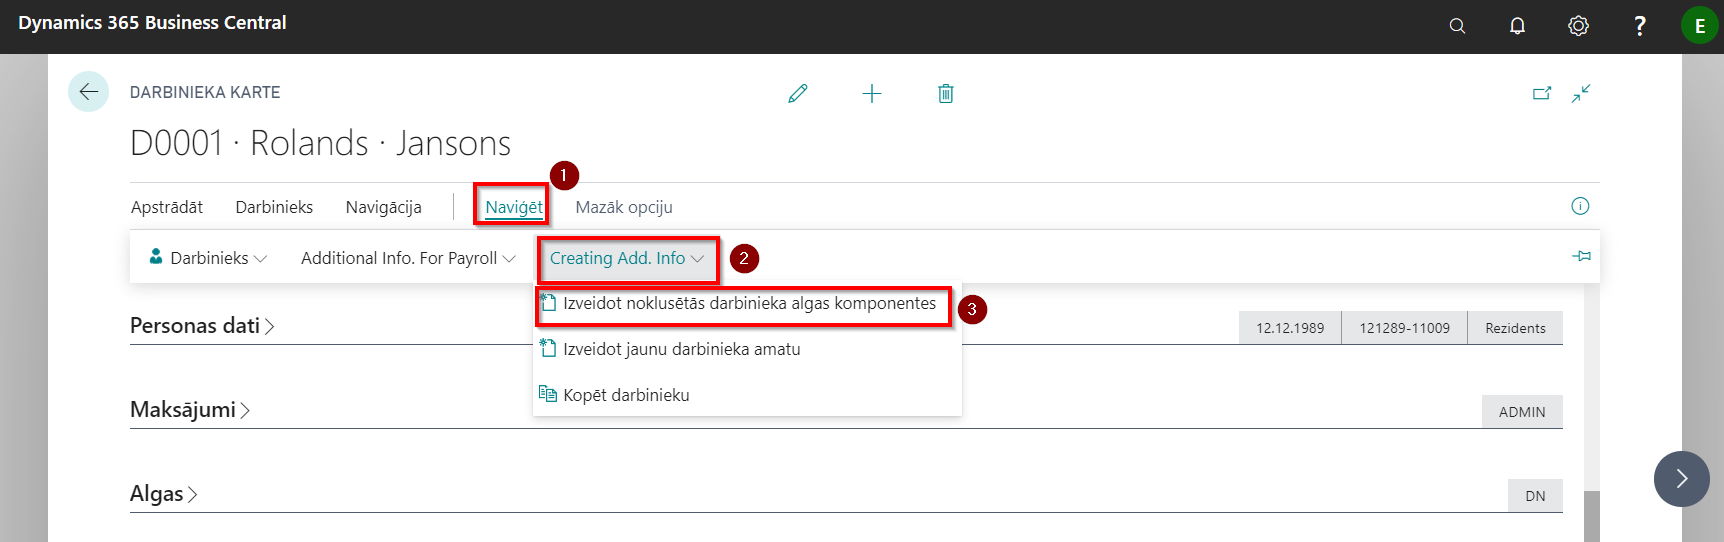
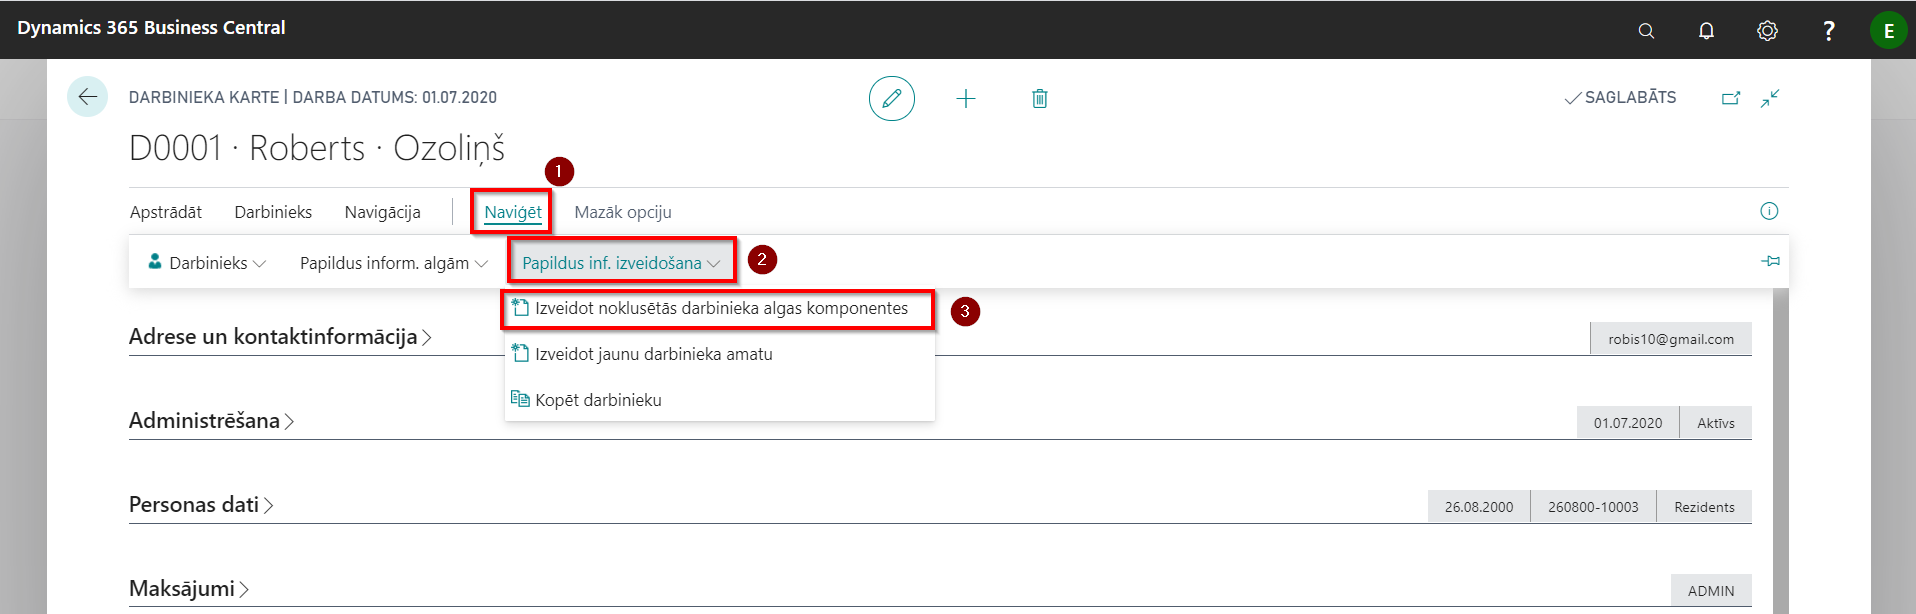
Automated Release lv-LV

diff --git a/lv-LV/docs/payroll_base/setup/6.1.empl_add.info.html b/lv-LV/docs/payroll_base/setup/6.1.empl_add.info.html
@@ -95,7 +95,7 @@
 </ul>
 <h2 id="kvalifikācija">Kvalifikācija</h2>
 <p>Sistēmā var uzturēt darbinieku kvalifikācijas sarakstu. Pamatojoties uz to, var izsekot termiņiem, kad apmācības/ instruktāžas jāveic atkārtoti (piemēram, izmantojot atskaiti <em>Darbinieku kvalifikācijas</em>).</p>
-<p>Lai varētu uzsākt kvalifikācijas uzskaiti, nepeiciešams reģistrēt sarakstā <em>Kvalifikācijas</em> uzņēmumam aktuālos kvalifikāciju veidu kodus un to aprakstus. Kvalifikācijas kodus ievada katru jaunā rindiņā, norādot brīvi izvēlētu kodu (<img src="count1.png" alt="alt">) un attiecīgās kvalifikācijas aprakstu (<img src="count2.png" alt="alt">). Ja laukā <em>Kvalificēti darbinieki</em> (<img src="count3.png" alt="alt">) ir atzīme <em>Jā</em>, tad klikšķinot uz saites <img src="count3.png" alt="alt"> var apskatīt sarakstu, kuriem darbiniekiem ir šī konrētā kvalifikācija.</p>
+<p>Lai varētu uzsākt kvalifikācijas uzskaiti, nepeiciešams reģistrēt sarakstā <em>Kvalifikācijas</em> uzņēmumam aktuālos kvalifikāciju veidu kodus un to aprakstus. Kvalifikācijas kodus ievada katru jaunā rindiņā, norādot brīvi izvēlētu kodu (<img src="count1.png" alt="alt">) un attiecīgās kvalifikācijas aprakstu (<img src="count2.png" alt="alt">). Ja laukā <em>Kvalificēti darbinieki</em> (<img src="count3.png" alt="alt">) ir atzīme <em>Jā</em>, tad klikšķinot uz saites <img src="count3.png" alt="alt"> var apskatīt sarakstu, kuriem darbiniekiem ir šī konkrētā kvalifikācija.</p>
 <p><img src="6.empl_add_info3.png" alt="alt"></p>
 <p>Kad saraksts <em>Kvalifikācijas</em> aizpildīts, var definēt darbinieka kvalifikācijas, izvēloties Darbinieka kartiņas rīkjoslā <em>Naviģēt</em> - <em>Darbinieks</em> - <em>Kvalifikācijas</em>.</p>
 <p><img src="6.empl_add_info2.png" alt="alt"></p>
@@ -153,13 +153,13 @@
 <p>Izsniegto priekšmetu kontrolei ir iespēja izmantot atskaiti <em>Dažādu priekšmetu pārskats</em>, kas pieejama darbinieku kartiņā klikšķinot uz pogām <em>Naviģēt</em> un <em>Darbinieks</em>.</p>
 <p>Vēl viena iespēja datu apkopošanai ir izmantot atskati <em>Darbinieka daž. priekšm. info</em>, kas pieejama ievadot nosaukumu sistēmas meklēšanas laukā.</p>
 <h2 id="darbinieka-ziņu-kodi">Darbinieka ziņu kodi</h2>
-<p>Darbinieka kartiņas rīkjoslā <em>Naviģēt</em> - <em>Papildus algu info</em> ir pieejama funkcija <em>Ziņu kodi</em>, kur var apskatīt un rediģēt darbiniekam piesaistītos ziņu kodus, pamatojoties uz kuriem tiek veidota atskaite <em>Ziņas par darba ņēmējiem</em>. Ja Algu uzstādījumu cilnē <em>Atskaites</em> ir ieslēgta funkcija <em>Ziņu koda pārbaudes iesl.</em>, tiek piedāvāta saīsne uz šo sarakstu, ikreiz kad tiek ievadīts darbinieka kartiņā darbā pieņemšanas datums vai atbrīvošanas datums, vai prombūtne, par ko ir jāsniedz ziņas EDS.</p>
+<p>Darbinieka kartiņas rīkjoslā <em>Naviģēt</em> - <em>Papildus inform. algām</em> ir pieejama funkcija <em>Ziņu kodi</em>, kur var apskatīt un rediģēt darbiniekam piesaistītos ziņu kodus, pamatojoties uz kuriem tiek veidota atskaite <em>Ziņas par darba ņēmējiem</em>. Ja Algu uzstādījumu cilnē <em>Atskaites</em> ir ieslēgta funkcija <em>Ziņu koda pārbaudes iesl.</em>, tiek piedāvāta saīsne uz šo sarakstu, ikreiz kad tiek ievadīts darbinieka kartiņā darbā pieņemšanas datums vai atbrīvošanas datums, vai prombūtne, par ko ir jāsniedz ziņas EDS.</p>
 <h2 id="saistītā-informācija">Saistītā informācija</h2>
-<p>Darbinieka kartiņas rīkjoslā <em>Naviģēt</em> - <em>Papildus algu info</em> ir pieejama funkcija <em>Saistītā informācija</em>. Šeit ir jāievada katam darbiniekam Algas nodokļu grāmatiņas iesniegšanas fakts un jānorāda datums. Nerezidentiem šeit arī ir veicama atzīme un norādāms datums.</p>
+<p>Darbinieka kartiņas rīkjoslā <em>Naviģēt</em> - <em>Papildus inform. algām</em> ir pieejama funkcija <em>Saistītā informācija</em>. Šeit ir jāievada katam darbiniekam Algas nodokļu grāmatiņas iesniegšanas fakts un jānorāda datums. Nerezidentiem šeit arī ir veicama atzīme un norādāms datums.</p>
 <p>Papildus ir pieejama pazīme aprēķiniem <em>Piemērot progresīvo ienākuma nodokli</em>.</p>
 <p><img src="6.empl_add_info6.png" alt="alt"></p>
 <h2 id="pārskaitījumi">Pārskaitījumi</h2>
-<p>Ja ir saņemts rīkojums ieturēt no darbinieka algas kādu summu un pārskaitīt to citas personas kontā (piemēram, tiesu izpildītāja kontā), tad šim gadījumam ir paredzēta funkcionalitāte <em>Pārskaitījumi</em>, kas atrodama darbinieka kartiņas rīkjoslā <em>Naviģēt</em> - <em>Papildus algu info</em>. Rindiņā jāsavada visa prasītā informācija, lai sistēma varētu sagatavot maksājumu nosūtīšanai uz maksājuma žurnālu un eksportēt uz banku.</p>
+<p>Ja ir saņemts rīkojums ieturēt no darbinieka algas kādu summu un pārskaitīt to citas personas kontā (piemēram, tiesu izpildītāja kontā), tad šim gadījumam ir paredzēta funkcionalitāte <em>Pārskaitījumi</em>, kas atrodama darbinieka kartiņas rīkjoslā <em>Naviģēt</em> - <em>Papildus inform. algām</em>. Rindiņā jāsavada visa prasītā informācija, lai sistēma varētu sagatavot maksājumu nosūtīšanai uz maksājuma žurnālu un eksportēt uz banku.</p>
 <p><img src="6.empl_add_info7.png" alt="alt"></p>
 <table>
 <thead>
@@ -217,7 +217,7 @@
 </table>
 <h2 id="pievienotie-faili">Pievienotie faili</h2>
 <p>Nepieciešamības gadījumā pie darbinieka kartiņas sistēmā ir iespējams pievienot failus jebkurā formātā (piemēram, CV, diplomus un citus dokumentus).
-Funkcionalitāte ir pieejama darbinieku kartiņas rīkjoslā <em>Darbinieks</em>.</p>
+Funkcionalitāte ir pieejama darbinieku kartiņas rīkjoslā <em>Naviģēt</em> - <em>Darbinieks</em> - <em>Pielikumi</em>.</p>
 <p><img src="6.empl_add_info8.png" alt="alt"></p>
 <h2 id="atskaites">Atskaites</h2>
 <p>No darbinieka kartiņas var ērti piekļūt sekojošām atskaitēm:</p>

diff --git a/lv-LV/docs/payroll_base/setup/6.empl_add.info.html b/lv-LV/docs/payroll_base/setup/6.empl_add.info.html
@@ -382,7 +382,7 @@
 <h2 id="cilne-darbinieka-amati">Cilne: <em>Darbinieka amati</em></h2>
 <p>Būtiska darbinieka kartiņas daļa!</p>
 <p>Šajā cilnē tiek norādīti tādi aprēķinam vajadzīgie parametri kā darba laika kalendārs, amatā pieņemšanas datums, amata nosaukums.</p>
-<p>Lai darbiniekam piešķirtu amatu, klikšķiniet uz pogām <em>Naviģēt</em> (<img src="count1.png" alt="alt">) - <em>Izveidot papildus info</em> (<img src="count2.png" alt="alt">) - <em>Izveidot jaunu darbinieka amatu</em> (<img src="count3.png" alt="alt">).</p>
+<p>Lai darbiniekam piešķirtu amatu, klikšķiniet uz pogām <em>Naviģēt</em> (<img src="count1.png" alt="alt">) - <em>Papildus inf. izveidošana</em> (<img src="count2.png" alt="alt">) - <em>Izveidot jaunu darbinieka amatu</em> (<img src="count3.png" alt="alt">).</p>
 <p><img src="5.empl_info_7.png" alt="alt"></p>
 <p>Atvērsies jauns logs <em>Darbinieka amata karte</em>.</p>
 <p><img src="5.empl_info_7.1.png" alt="alt"></p>
@@ -500,8 +500,8 @@
 <p>Nepieciešamības gadījumā Darbinieku amata kartiņā ir iespējams arī piešķirt dimensijas apskatītajam darbinieka amatam.</p>
 <h2 id="algas-komponentes"><em>Algas komponentes</em></h2>
 <p>Darba algas komponentēs norāda nodokļu, atvieglojumu un atvilkumu komponentes, kuras jāiekļauj darbinieka darba algas aprēķinā.</p>
-<p>Darbinieka algas komponenetes var apskatīt klikšķinot rīkjoslā uz pogām <em>Apstrādāt</em> - <em>Algas komponentes</em>.</p>
-<p>Izveidojot jaunu darbinieka kartiņu, pirmo reizi algu komponentes ir jāģenerē automātiski. Lai to izdarītu, rīkjoslā jānoklikšķina uz pogām <em>Naviģēt</em> (<img src="count1.png" alt="alt">) - <em>Izveidot papildus info</em> (<img src="count2.png" alt="alt">) - <em>Izveidot noklusētās darbinieka algas komponentes</em> (<img src="count3.png" alt="alt">).</p>
+<p>Darbinieka algas komponenetes var apskatīt klikšķinot rīkjoslā uz pogām <em>Apstrādāt</em> - <em>Darbinieka algas komponentes</em>.</p>
+<p>Izveidojot jaunu darbinieka kartiņu, pirmo reizi algu komponentes ir jāģenerē automātiski. Lai to izdarītu, rīkjoslā jānoklikšķina uz pogām <em>Naviģēt</em> (<img src="count1.png" alt="alt">) - <em>Papildus inf. izveidošana</em> (<img src="count2.png" alt="alt">) - <em>Izveidot noklusētās darbinieka algas komponentes</em> (<img src="count3.png" alt="alt">).</p>
 <p><img src="5.empl_info_8.png" alt="alt"></p>
 <p>Algas komponentes ir vieta, kur ir jānorāda pamatalgas komponente, kā arī citas regulāru papildus ienākumu komponentes (piemaksas, prēmijas, bonusus u.tml., kas ir konstantas summas katru mēnesi ilgstošu laika periodu). Izmaksājamo avansa summu norāda avansa komponentē.
 Nepieciešamības gadījumā rindas papildina ar informāciju par atvieglojumiem - Apgādājamie, Invaliditāte, Represētais.</p>
@@ -513,7 +513,7 @@ Nepieciešamības gadījumā rindas papildina ar informāciju par atvieglojumiem
 <h3 id="izpildrakstu-apstrāde">Izpildrakstu apstrāde</h3>
 <p>Izpildraksts ir jāreģistrē darbinieka kartes cilnē <em>Algas komponentes</em></p>
 <p><img src="10.salary_comp.register_2.png" alt="alt"></p>
-<p><em>Konkrētajā piemērā ir ieturēti 20 % no bāzes ALIM (alga pēc nodokļu ieturēšanas) izmantojot algas komponenti Nr.740, kur minimālais ieturējums 250 EUR mēnesī, un 1250 EUR ir vekti ieturējumi par iepriekšejiem periodiem. Ieturējumam limita nav.</em></p>
+<p><em>Konkrētajā piemērā ir ieturēti 20 % no bāzes ALIM (alga pēc nodokļu ieturēšanas) izmantojot algas komponenti Nr.740, kur minimālais ieturējums 250 EUR mēnesī, un par iepriekšejiem periodiem ir vekti ieturējumi 2000 EUR apmērā. Ieturējumam limita nav.</em></p>
 <p>Lai iestatītu izpildraksta ieturējumu, jāaizpilda sekojoši lauki:</p>
 <table>
 <thead>
@@ -559,11 +559,11 @@ Nepieciešamības gadījumā rindas papildina ar informāciju par atvieglojumiem
 </table>
 <p><strong>Iespējamie konfigurācijas varianti:</strong></p>
 <ul>
-<li>Tiek ieturēti 30% no darbiniekam izmaksājamās, bet ne vairāk kā 350 EUR mēnesī. Kopējā ieturāmā summa 350 EUR. Parādīts, ka no darbinieka ir ieturēts jau 346.08 EUR.</li>
+<li>Tiek ieturēti 30% no darbiniekam izmaksājamās, bet ne vairāk kā 350 EUR mēnesī. Kopējā ieturāmā summa 350 EUR. Parādīts, ka no darbinieka ir jau ieturēta maksimālā summa 350.00 EUR.</li>
 </ul>
 <p><img src="10.salary_comp.register_3.png" alt="alt"></p>
 <ul>
-<li>Tiek ieturēti 20%, pie nosacījuma, ka ir jānodrošina darbinieka algas izmaksas summa vismaz 370 EUR mēnesī. Kopējā ieturamā summa 350 EUR. Parādīts, ka no darbinieka ir ieturēts 199.36 EUR.</li>
+<li>Tiek ieturēti 20%, pie nosacījuma, ka ir jānodrošina darbinieka algas izmaksas summa vismaz 370 EUR mēnesī. Kopējā ieturamā summa 350 EUR. Parādīts, ka no darbinieka ir ieturēts 36.00 EUR.</li>
 </ul>
 <p><img src="10.salary_comp.register_4.png" alt="alt"></p>
 <div class="TIP">

diff --git a/lv-LV/docs/payroll_base/setup/4.empl_card.html b/lv-LV/docs/payroll_base/setup/4.empl_card.html
@@ -79,15 +79,16 @@
             <article class="content wrap" id="_content" data-uid="">
 <h1 id="darbinieku-pieņemšana-darbā">Darbinieku pieņemšana darbā</h1>
 
-<p>Lai pieņemti darbā jaunu darbinieku ir jāizveido jauna darbinieka kartiņa. Katram darbiniekam ir sava atsevišķa kartiņa, kur ir jāievad visa pieejamā informācija, kas attiecas uz konkrēto darbinieku.Darbinieka kartiņā ir apkopo visa informācija, kas nepieciešama uzskaitei, aprēķiniem un atskaitēm.</p>
+<p>Lai pieņemti darbā jaunu darbinieku ir jāizveido jauna darbinieka kartiņa. Katram darbiniekam ir sava atsevišķa kartiņa, kur ir jāievad visa pieejamā informācija, kas attiecas uz konkrēto darbinieku. Darbinieka kartiņā ir apkopo visa informācija, kas nepieciešama uzskaitei, aprēķiniem un atskaitēm.</p>
 <p>Visas darbinieku kartiņas ir apkopotas sarakstā <em>Darbinieki</em>.</p>
-<p>Lietotāju ērtībām darbinieku ievadīšanai sistēmā ir pieejama arī darbinieka kartiņas kopēšanas funkcija (Darbinieka kartiņas rīkjoslā <em>Naviģēt</em>-<em>Izveidot papildus info</em>-<em>Kopēt darbinieku</em>), ko ir ērti izmantot, ja darbinieks pēc atbrīvošanas ir atkārtoti uzsācis darbu uzņēmumā. Tomēr, lai izvairītos no iespējamām kļūdām (piemēram, vidējās izpeļņas aprēķinā, paziņojumā par fiziskajām personām izmaksātajām summām), ir ieteicams veidot jaunu darbinieka kartiņu.</p>
+<p>Lietotāju ērtībām darbinieku ievadīšanai sistēmā ir pieejama arī darbinieka kartiņas kopēšanas funkcija (Darbinieka kartiņas rīkjoslā <em>Naviģēt</em>-<em>Papildus inf. izveidošana</em>-<em>Kopēt darbinieku</em>), ko ir ērti izmantot, ja darbinieks pēc atbrīvošanas ir atkārtoti uzsācis darbu uzņēmumā. Tomēr, lai izvairītos no iespējamām kļūdām (piemēram, vidējās izpeļņas aprēķinā, paziņojumā par fiziskajām personām izmaksātajām summām), ir ieteicams veidot jaunu darbinieka kartiņu.</p>
 <h1 id="darbinieku-atbrīvošana-no-darba">Darbinieku atbrīvošana no darba</h1>
 <p>Lai darbinieku atbrīvotu no darba, darbinieka kartiņas cilnē <em>Administrēšana</em> ieraksta atbrīvošanas datumu <img src="count1.png" alt="alt">. Apstiprinot datuma ievadi, sistēma šo datumu ievadīs arī Darbinieka amata kartiņas laukā <em>Datums līdz</em> <img src="count2.png" alt="alt"> un tiks noslēgtas visas algu komponentes <img src="count3.png" alt="alt">.</p>
 <blockquote>
 <p>Ja Algu uzstādījumu cilnē <em>Atskaites</em> ir ieslēgta funkcija <em>Ziņu koda pārbaudes iesl.</em>, tad aizpildot <em>Līguma izbeigšanas datums</em> lauku, sistēma piedāvās arī ievadīt darbinieka ziņu kodu EDS iesniedzamam paziņojumam <em>Ziņas par darba ņēmējiem</em>.</p>
 </blockquote>
-<p><img src="15.empl_termin_1.png" alt="alt"></p>
+<p><img src="15.empl_termin_1.png" alt="alt">
+<img src="15.empl_termin_2.png" alt="alt"></p>
 <p>Darbinieka atbrīvošanas datuma ievades brīdī, sistēma saģenerēs prombūtnes ierakstu (ar kodu ATVAL_KOMP) neizmantotā atvaļinājuma kompensācijas apmaksai, kas tiks pievienots algas aprēķinam automātiski.</p>
 <p><em>Komponešu reģistrā</em> var pievienot nepieciešamās piemaksas vai atvilkumus gala aprēķinam.</p>
 <p>Sagatavojot EDS Paziņojumu par fiziskai personai izmaksātām summām atskaites buferi, cilnes <em>Visp. info</em> laukā <em>Mēnesis</em> jānorāda mēnesis, kurā darbinieks tiek atbrīvots. Gadījumā, ja ir vairāki darbinieki, ģenerējot bufera ierakstus, ir iespējams norādīt atbrīvošanas periodu</p>

diff --git a/lv-LV/docs/payroll_base/setup/2.payroll_acc.html b/lv-LV/docs/payroll_base/setup/2.payroll_acc.html
@@ -80,7 +80,7 @@
 <h1 id="algu-uzstādījumi">Algu uzstādījumi</h1>
 
 <p>Ielādējot konfigurācijas pakotni standarta uzstādījumi jau ir aizpildīti, tomēr rekomendējam pārskatīt visus uzstādījumus atbilstoši jūsu uzņēmuma vajadzībām.</p>
-<h3 id="cilne-vispārīgā-informācija">Cilne: <em>Vispārīgā informācija</em></h3>
+<h3 id="cilne-visp-info">Cilne: <em>Visp. info</em></h3>
 <p><img src="2.payroll_acc_1.png" alt="alt"></p>
 <table>
 <thead>
@@ -212,15 +212,15 @@
 </tr>
 <tr>
 <td>Nelietot sistēmas komp. reģistrus</td>
-<td>Norāde, ka algu aprēķinos netiks lietoti sistēmas radītie komponenšu reģistri. Gadījumā, ja ir nepieciešamas korekcijas, un ielikts ķeksis “Nelietot” , aprēķinot, tiek paradīti paziņojumi par korekcijām, bet reģistrs netiks veidots.</td>
+<td>Norāda, ja algu aprēķinos nevēlas lietot sistēmas radītus Komponenšu reģistra ierakstus. Gadījumā, ja ir nepieciešamas korekcijas, un ielikts ķeksis “Nelietot” , aprēķinot, tiek paradīti paziņojumi par korekcijām, bet reģistrs netiks veidots.</td>
 </tr>
 <tr>
 <td>Atļaut detalizētu maksājumu grāmatošanu</td>
-<td>Atzīme šajā laukā norāda uz to, ka algu maksājums tiks grāmatots detalizēti, nevis grupēts viss vienā summā; algu maksājumus eksportē uz maksājumu žurnālu un lietotājs var iegrāmatot ar standarta grāmatojumu par katru darbinieku atsevišķi. Tādā gadījumā  VG var redzēt, cik katrs saņem. Tādēļ tika uztaisīta otra grāmatošanas funkcija algām, kura var sagrupēt pa dimensijām un tad iegrāmatot maksājumus. Lai lietotājs nevarētu izmantot algu maksājumiem standarta grāmatošanu pa katru žurnāla rindu, ir šis uzstādījums, kas to aizliedz.</td>
+<td>Atzīme šajā laukā norāda uz to, ka algu maksājums tiks grāmatots detalizēti, nevis grupēts viss vienā summā. Algu maksājumus eksportē uz maksājumu žurnālu un lietotājs var iegrāmatot ar standarta grāmatojumu par katru darbinieku atsevišķi. Tādā gadījumā  virsgrāmatā var redzēt, cik katrs darbinieks saņem. Tādēļ ir paredzēta otra grāmatošanas funkcija algām, kura var sagrupēt pa dimensijām un tad iegrāmatot maksājumus.</td>
 </tr>
 <tr>
 <td>Nepārnest nepiemērotos atviegl.</td>
-<td>Norāde, ka nepiemērotie atvieglojumi netiks pārnesti uz nākošo mēnešu algu aprēķiniem;  Nepiemērotie atvieglojumi tiek pārnesti caru komponenšu reģistru, kas tiek izveidots aprēķina brīdī. Ja aprēķina brīdī bija pazīme, ka nevajag pārnest nepiemērotos atvieglojumus, tad arī nebūs komponenšu reģistra ieraksta un nākamajā mēnesī tie netiks ņemti vērā.</td>
+<td>Norāda, ja nevēlas nepiemērotos atvieglojumus pārnesti uz nākošo mēnešu algu aprēķiniem;  Nepiemērotie atvieglojumi tiek pārnesti caur Komponenšu reģistru, kas tiek izveidots aprēķina brīdī. Ja aprēķina brīdī bija pazīme, ka nevajag pārnest nepiemērotos atvieglojumus, tad arī nebūs komponenšu reģistra ieraksta un nākamajā mēnesī tie netiks ņemti vērā.</td>
 </tr>
 <tr>
 <td>Struktūrvienības dimensijas kods</td>

diff --git a/lv-LV/docs/payroll_base/faq.html b/lv-LV/docs/payroll_base/faq.html
@@ -79,8 +79,13 @@
             <article class="content wrap" id="_content" data-uid="">
 <h1 id="buj">BUJ</h1>
 
-<p><strong>1. Veicu algas aprēķinu darbiniekiem, bet aizmirsu nomainīt sociālā statusa kodu vienam darbiniekam. Kā izlabot?</strong></p>
+<p><strong>1. Veicu algas aprēķinu darbiniekiem, bet vienam darbiniekam aizmirsu nomainīt sociālā statusa kodu. Kā rīkoties, lai izlabotu?</strong></p>
 <p>Nomaina sociālā statusa kodu darbinieka kartiņā un izlabo darbinieka algas komponentēs nodokļu informāciju. Veic aprēķinu ar pazīmi “veidot storno, ja pastāv aprēķins šajā mēnesī” par mēnesi, kurā nepieciešami labojumi.</p>
+<p><strong>2. Darbinieks iet atvaļinājumā un lūdz izmaksāt atvaļinājuma naudu. Sagatavoju starpizmaksas dokumentu, bet izmaksā tiek iekļauta arī piemaksas summa, kas tika ievadīta caur Komponenšu reģistru. Kā sagatavot starpizmaksu tikai par atvaļinājumu?</strong></p>
+<p>Lai izmaksātu tikai atvaļinājuma naudu, starpizmaksas kartiņā jāizmanto cilne <em>Filtri</em>, kur izvēlas no saraksta atbilstošo atvaļinājuma kodu lauciņā <em>Prombūtnes koda filtrs</em>, lauciņā  <em>Prombūtnes sākuma perioda filtrs</em> norāda periodu (ja periodā ir vairākas prombūtnes ar vienādu kodu) un ieslēdz pogu <em>Neiekļaut komp. reģ.</em></p>
+<p><strong>3. Darbiniekam piešķirta vienreizēja piemaksa. Kā labāk šo ievadīt?</strong></p>
+<p>Vienreizēju piemaksu (arī ieturējumu) nepieciešmas ievadīt <em>Komponenšu reģistrā</em>. Piemkasas (arī ieturējumus), kas atkārtojas vairākus mēnešus pēc kārtas, ieteicams ievadīt Darbinieka kartiņas algu komponentēs.</p>
+<p>**4.</p>
 </article>
           </div>
           

diff --git a/lv-LV/docs/payroll_base/setup/0.conf_pack.html b/lv-LV/docs/payroll_base/setup/0.conf_pack.html
@@ -90,23 +90,27 @@
 <p>Konfigurācijas pakotne ievada sistēmā sekojošu informāciju:</p>
 <ul>
 <li>Valstis/Reģionus</li>
+<li>Ar algām saistīto kontu plānu</li>
 <li>Ar algām saistītos virsgrāmatas uzstādījumus</li>
-<li>Virsgrāmatas žurnālu veidnes</li>
-<li>Virsgrāmatas žurnāla iedaļas</li>
+<li>Virsgrāmatas žurnālu veidnes un iedaļas</li>
 <li>Mērvienības</li>
 <li>LV Pasta indeksus</li>
+<li>Bankas konta kartiņa algu norēķiniem</li>
+<li>Bankas kontējumu grupa</li>
 <li>Numuru sērijas un to rindas</li>
 <li>SWIFT kodus</li>
 <li>Prombūtņu iemeslu kodus</li>
 <li>Darbinieku statistikas grupas</li>
 <li>Darbinieku kontējuma grupas</li>
 <li>Atsauces uz Darba likuma pantiem</li>
-<li>Algu iesatījumus</li>
+<li>Cilvēku resursu uzstādījumus</li>
+<li>Algu uzstādījumus</li>
 <li>Algu komponentes un to iestatījumus</li>
 <li>Algu bāzes un to iestatījumus</li>
 <li>Sociālos statusus un to ziņu kodus</li>
 <li>Samazinātās procentu likmes prombūtņu apmaksai</li>
-<li>Kalendārus (4x5, 5DD, 6 DD un SVĒTKU) un izmaiņas tekošajam gadam.</li>
+<li>Kalendārus (4x5, 5DD, 6 DD un SVĒTKU) un svētku dienu izmaiņas tekošajam gadam.</li>
+<li>Algas maksājumu grāmatošanas uzstādījumus</li>
 <li>Algu komponešu grāmatojumu uzstādījumus</li>
 <li>PFPIS ienākumu un atvieglojumu veidus</li>
 </ul>
